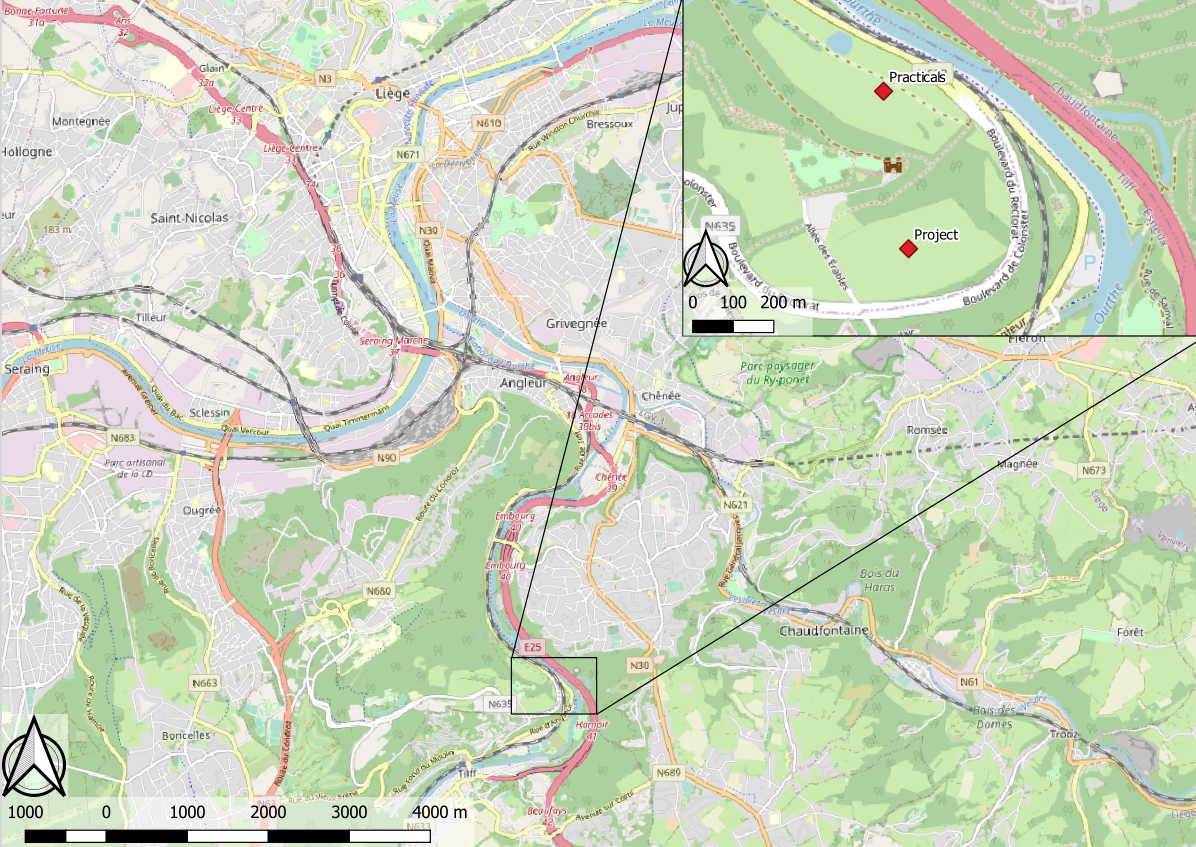
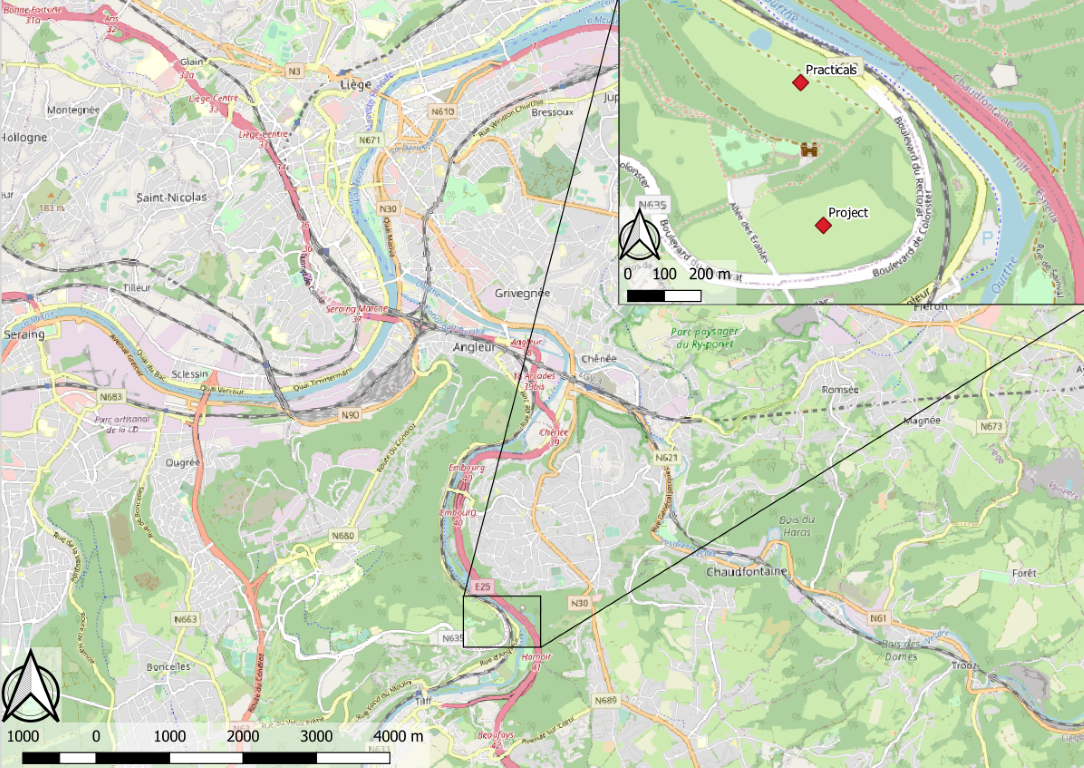
Compression of image size

diff --git a/README.md b/README.md
@@ -24,22 +24,32 @@ Magnetic surveys are often conducted to rapidely map magneticaly succeptible ano
 
 During this practicals, you will learn how to convert raw MAG data into maps that can be interpreted in terms of anomalies and emit hypothesis on the nature of the anomalies observed given the geological and geophysical context.
 
+Sites: Onoz and Colonster
+
 ## EMI
 ![EMI](./pictures/EMI_measurements.jpg)
 *Fig.3: Example of an EMI survey*
 
 As for MAG surveyx, EMI is often used to rapidely cover large areas. 
 
+Sites: Westhoek and Colonster
+
 ## ERT
 ![ERT](./pictures/ERT_measurements.jpg)
 *Fig.4: Example of an ERT/IP survey*
 
+Sites: Bertrix and Colonster
+
 ## IP
 IP is often measured alongside ERT measurements, since time-domain IP (the one that we will use here) is measured directly after the resistivity measurements.
+
+Sites: Bertrix and Colonster
 
 ## Seismic
 ![SEISMIC](./pictures/SEIS_measurements.jpg)
 *Fig.5: Example of a seismic survey*
+
+Sites: Beusdael and Colonster
 
 # Project
 At the end of the semester, you will be asked to go on the field with one of the methods seen in class and availble in our laboratory. The available equipment is:
@@ -52,3 +62,13 @@ You will work in groupds of 4 on the "Project" area of *Fig.1*. There will be 2 
 You will be asked to interpret your dataset and show your prossess and conclusions in a short (10 minutes) group presentation. After every presentation, you will benefit from a feedback from the teaching team and you will need to write a short report on your investigation (10 pages maximum) taking into account our remarks.
 
 For the last class, we will take all your interpretations together and build a coherent geophysical model for the site.
+
+# Contacts
+
+## Professor: 
+- Frédéric Nguyen (f.nguyen@uliege.be)
+## Teaching assistants:
+- Tom Debouny (tom.debouny@uliege.be)
+- Hadrien Michel (hadrien.michel@uliege.be)
+## Github Maintenance:
+- Hadrien Michel (hadrien.michel@uliege.be)
